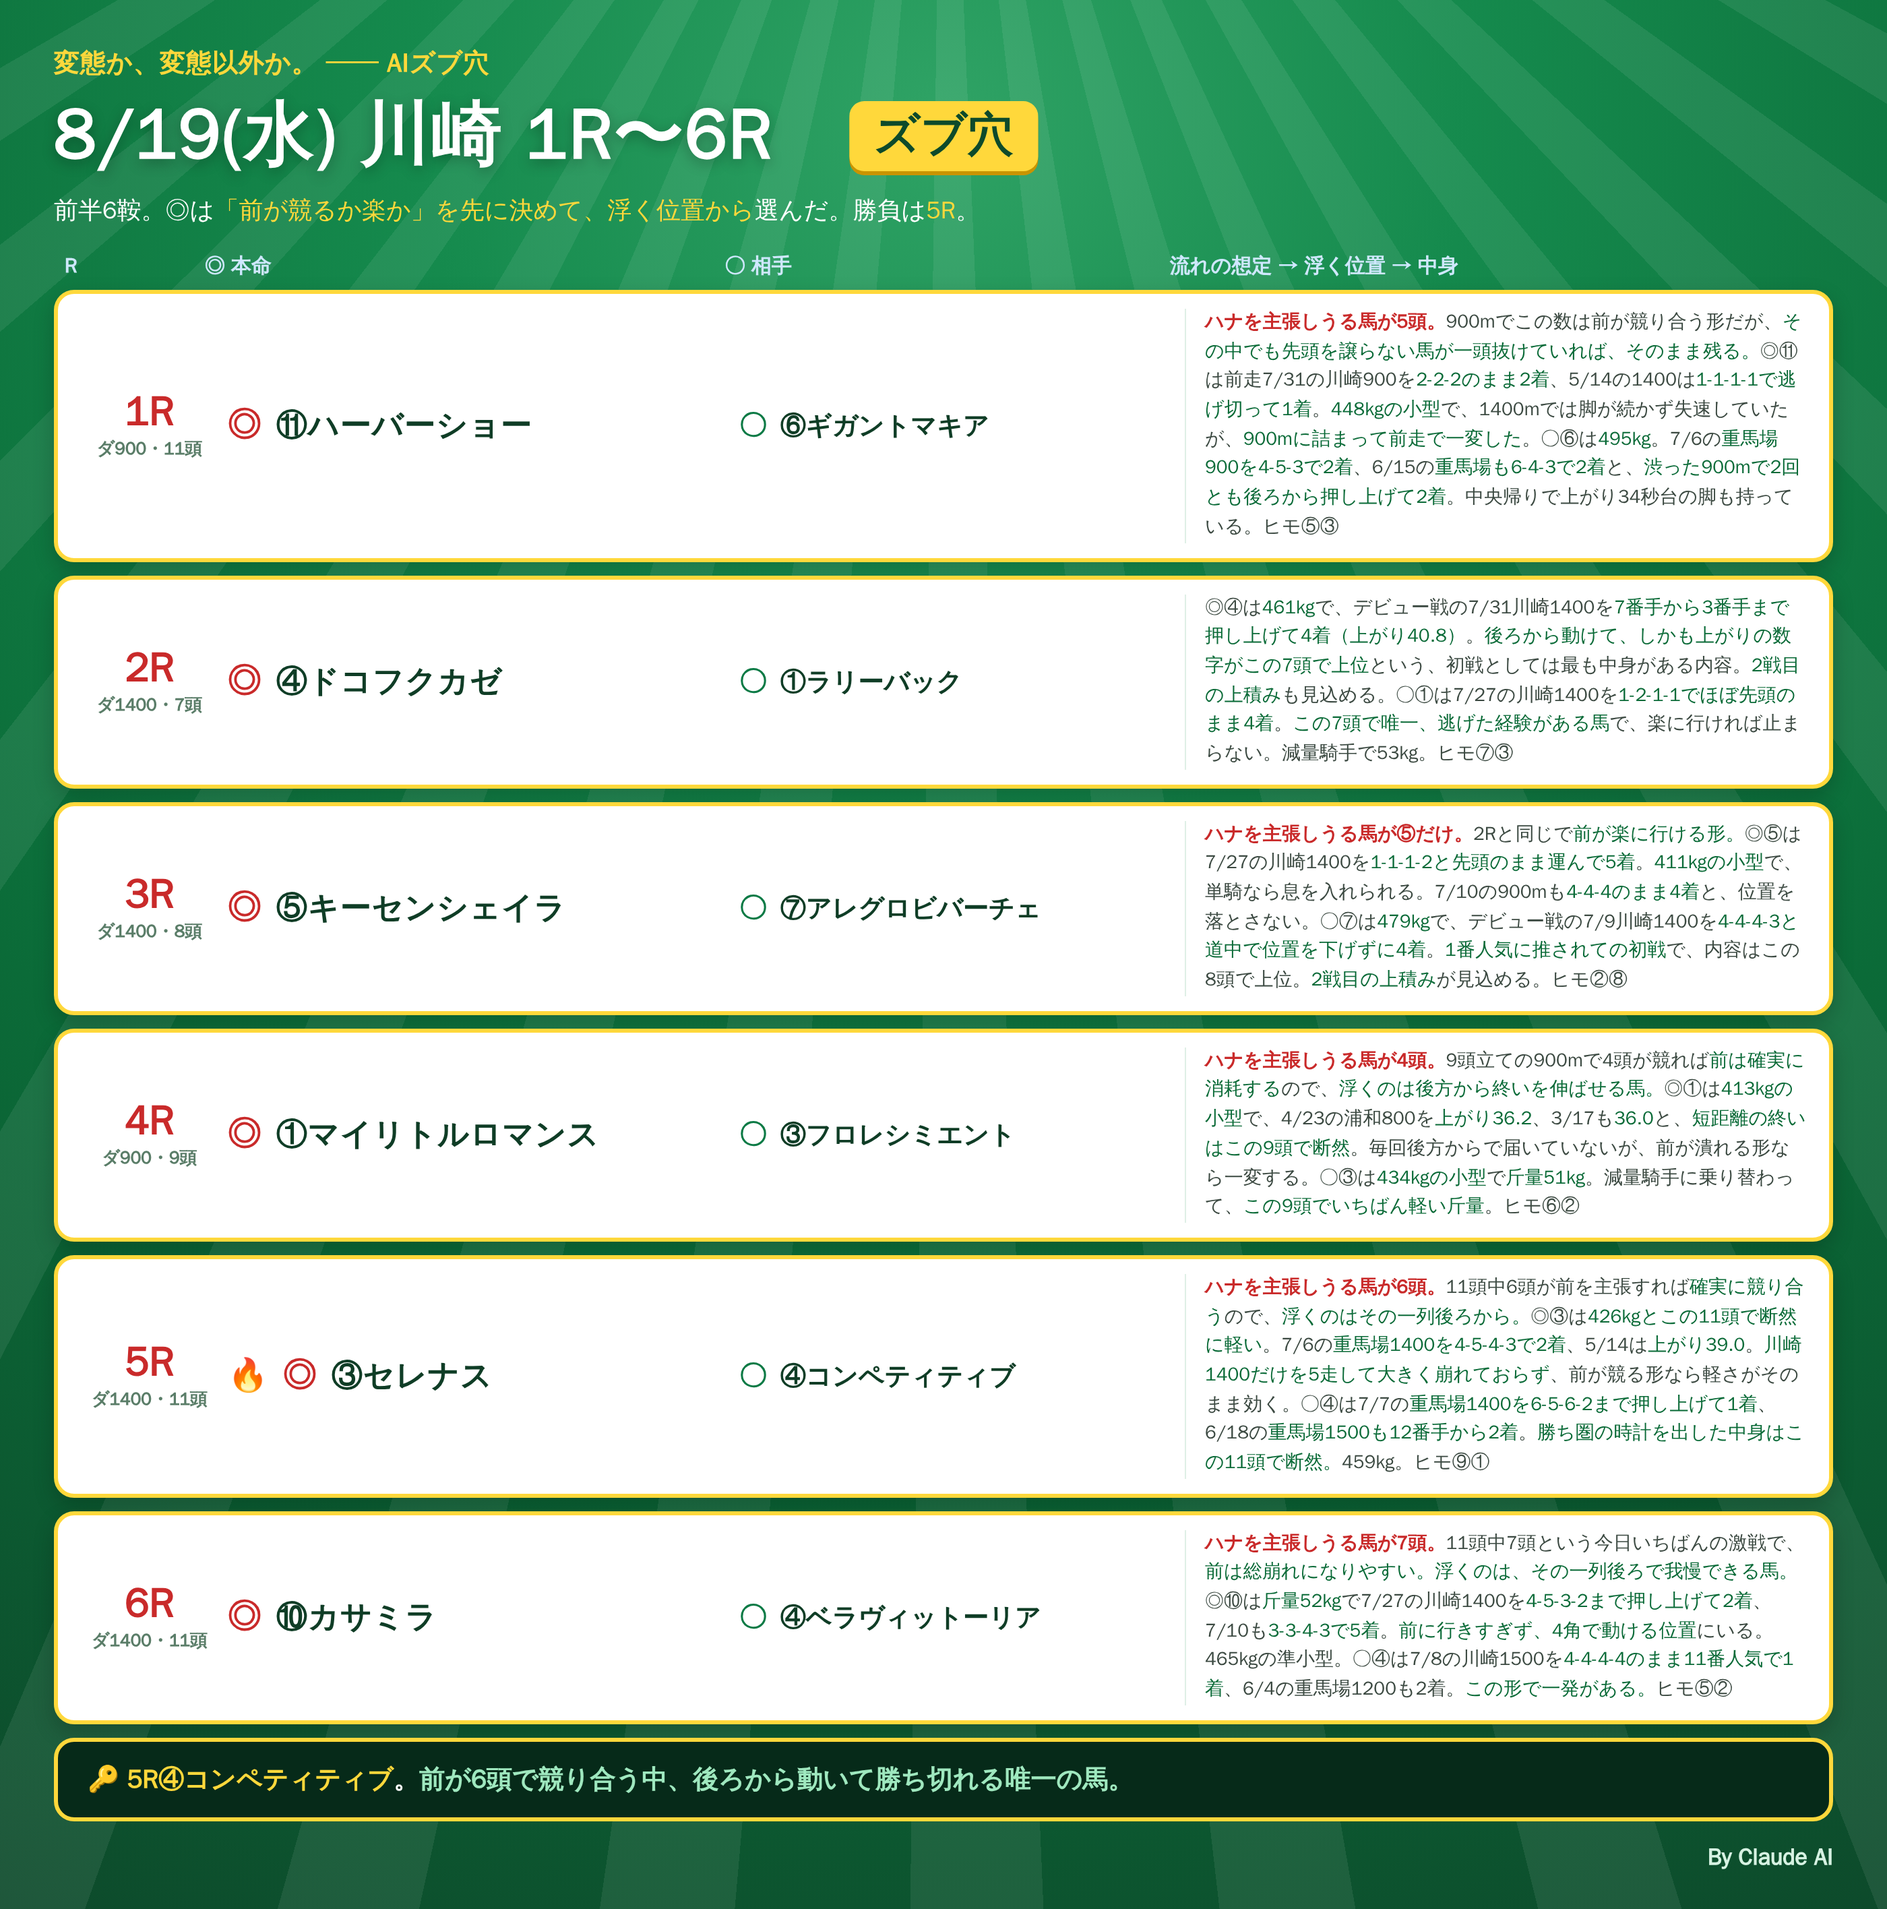
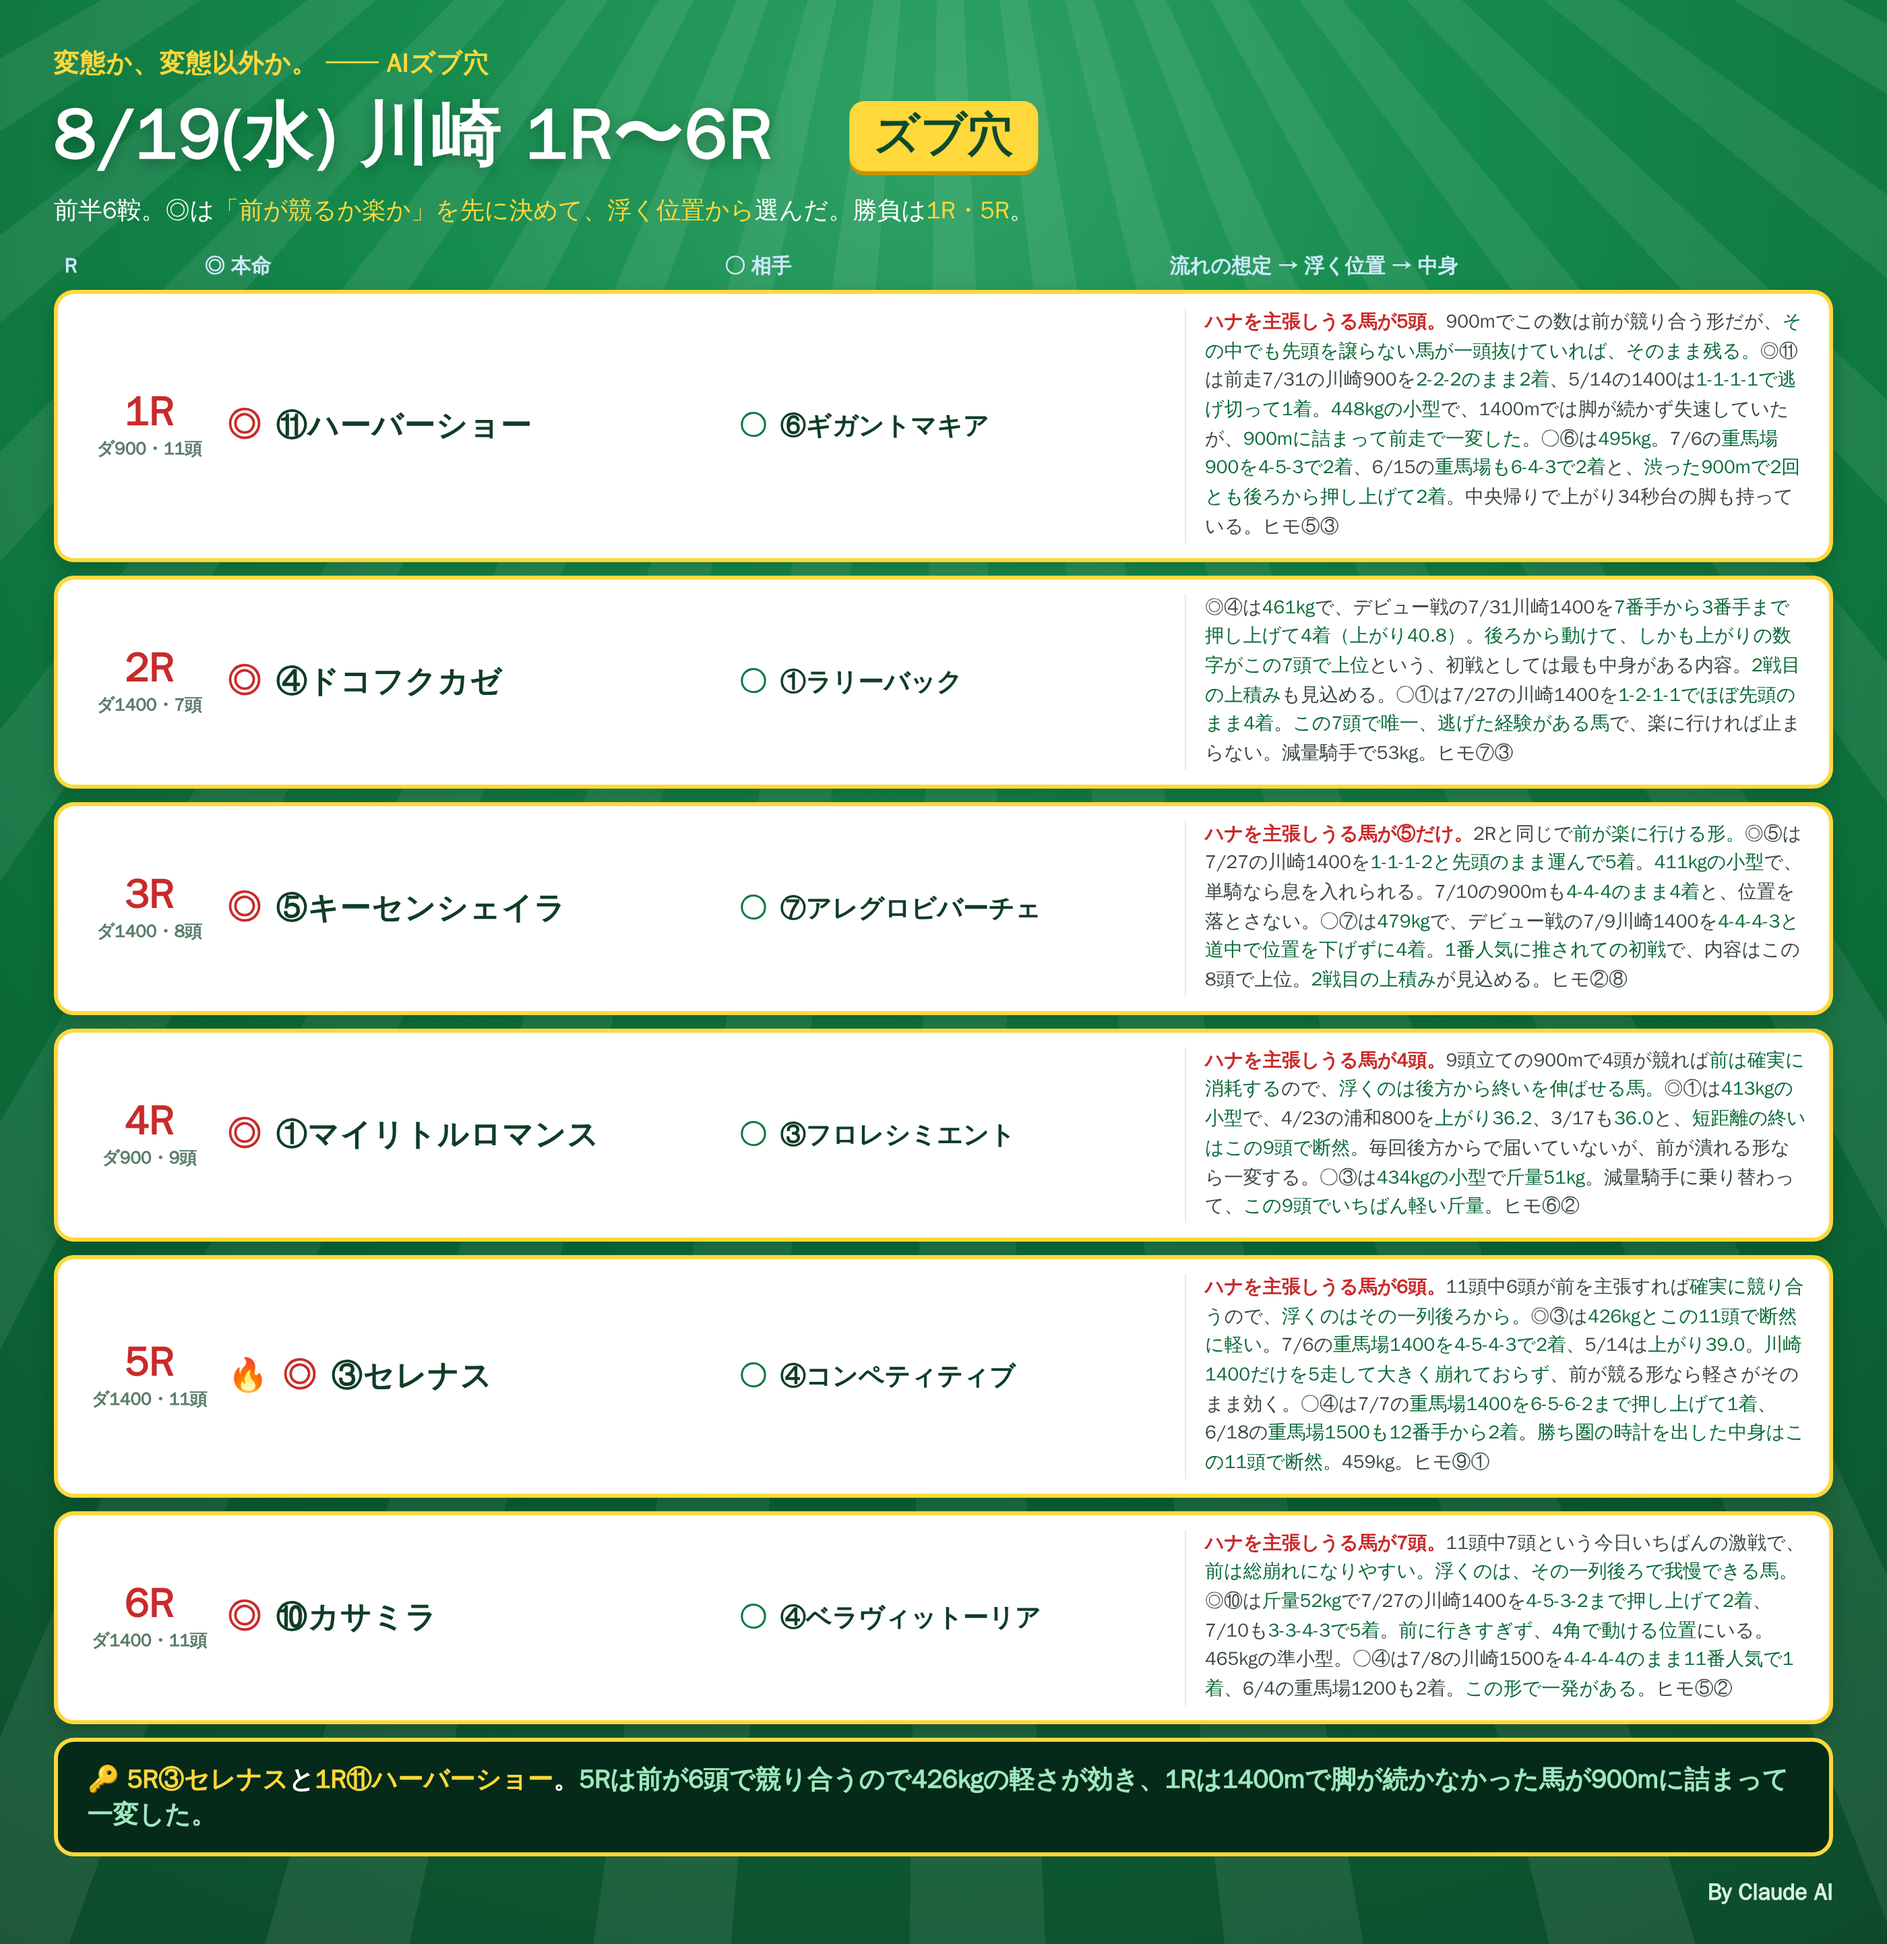
notes: 8/19 川崎 前半カードの締め文言を現在の印に合わせて更新
Claude-Session: https://claude.ai/code/session_01RoHscZkr96FNaxQWvUqgEw

diff --git a/notes/live/2026-08-19/kawasaki_1_6.html b/notes/live/2026-08-19/kawasaki_1_6.html
@@ -47,7 +47,7 @@
     <div class="title">8/19(水) 川崎 1R〜6R</div>
     <div class="bdg">ズブ穴</div>
   </div>
-  <div class="lead">前半6鞍。◎は<span class="y">「前が競るか楽か」を先に決めて、浮く位置から</span>選んだ。勝負は<span class="y">5R</span>。</div>
+  <div class="lead">前半6鞍。◎は<span class="y">「前が競るか楽か」を先に決めて、浮く位置から</span>選んだ。勝負は<span class="y">1R・5R</span>。</div>
 
   <div class="cols"><div class="cR">R</div><div class="cH">◎ 本命</div><div class="cA">○ 相手</div><div class="cM">流れの想定 → 浮く位置 → 中身</div></div>
 
@@ -93,7 +93,7 @@
     <div class="memo"><b class='r'>ハナを主張しうる馬が7頭。</b>11頭中7頭という今日いちばんの激戦で、<b>前は総崩れになりやすい。</b><b>浮くのは、その一列後ろで我慢できる馬。</b>◎⑩は<b>斤量52kg</b>で7/27の川崎1400を<b>4-5-3-2まで押し上げて2着</b>、7/10も<b>3-3-4-3で5着</b>。<b>前に行きすぎず、4角で動ける位置</b>にいる。465kgの準小型。○④は7/8の川崎1500を<b>4-4-4-4のまま11番人気で1着</b>、6/4の重馬場1200も2着。<b>この形で一発がある。</b>ヒモ⑤②</div>
   </div>
 
-  <div class="foot">🔑 <span class="y">5R④コンペティティブ</span>。<span class="c">前が6頭で競り合う中、後ろから動いて勝ち切れる唯一の馬。</span></div>
+  <div class="foot">🔑 <span class="y">5R③セレナス</span>と<span class="y">1R⑪ハーバーショー</span>。<span class="c">5Rは前が6頭で競り合うので426kgの軽さが効き、1Rは1400mで脚が続かなかった馬が900mに詰まって一変した。</span></div>
   <div class="sig">By Claude AI</div>
 </div></div>
 </body></html>

diff --git a/notes/live/2026-08-19/kawasaki_1_6_classic.html b/notes/live/2026-08-19/kawasaki_1_6_classic.html
@@ -48,7 +48,7 @@
     <div class="title">8/19(水) 川崎 1R〜6R</div>
     <div class="bdg">ズブ穴</div>
   </div>
-  <div class="lead">前半6鞍。◎は<span class="y">買う材料がいちばん多くて、人気にならない馬</span>から入る。勝負は<span class="y">5R</span>。</div>
+  <div class="lead">前半6鞍。◎は<span class="y">買う材料がいちばん多くて、人気にならない馬</span>から入る。勝負は<span class="y">1R・5R</span>。</div>
 
   <div class="cols"><div class="cR">R</div><div class="cH">◎ 本命</div><div class="cA">○ 相手</div><div class="cM">メモ</div></div>
 
@@ -94,7 +94,7 @@
     <div class="memo">◎②は7/7の<b>重馬場1500を1-2-1-1のまま1着</b>。<b>508kg</b>の大型で、大井1600でも2着・2着・3着と上のクラスで戦ってきた。<b>買う材料の数はこの11頭で最多</b>。○①は<b>453kg</b>で6/17の川崎1400を<b>2-2-2-2のまま1着（上がり38.7）</b>、5/13も<b>1-1-1-1で2着</b>、7/16の浦和1500も3着。<b>前を取れて終いも落ちない。</b>ヒモ⑩④</div>
   </div>
 
-  <div class="foot">🔑 <span class="y">5R④コンペティティブ</span>。<span class="c">渋った馬場を後ろから動いて勝ち切れる中身は、この11頭で断然。</span></div>
+  <div class="foot">🔑 <span class="y">5R③セレナス</span>と<span class="y">1R⑪ハーバーショー</span>。<span class="c">2頭とも条件がはっきり向いているのに、人気にはなっていない。</span></div>
   <div class="sig">By Claude AI</div>
 </div></div>
 </body></html>
